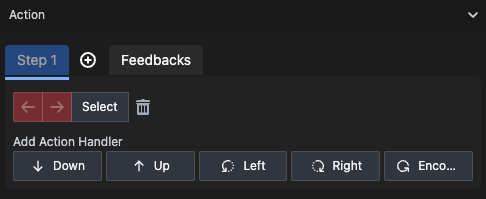
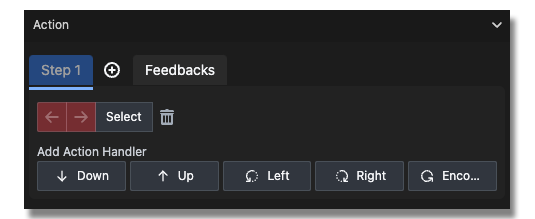
Testing Pading and dropshadow

diff --git a/docs/1_gettingstarted/2_glosary_of _terms.md b/docs/1_gettingstarted/2_glosary_of _terms.md
@@ -1,5 +1,10 @@
 To be filled out and organized
 
+**BOLD** is used when referring to functions of **Buttons** or actual actions to be carried out by the user **Click**.
+*Cursive* is used when referring to options in dialog boxes onscreen
+
+
+
 
 Key words
 Tag

diff --git a/docs/1_home/home.md b/docs/1_home/home.md
@@ -1,3 +1,4 @@
 
 ![home page](images/home.png 'home page')
+
 The home page gives you a quick overview of your setup  
